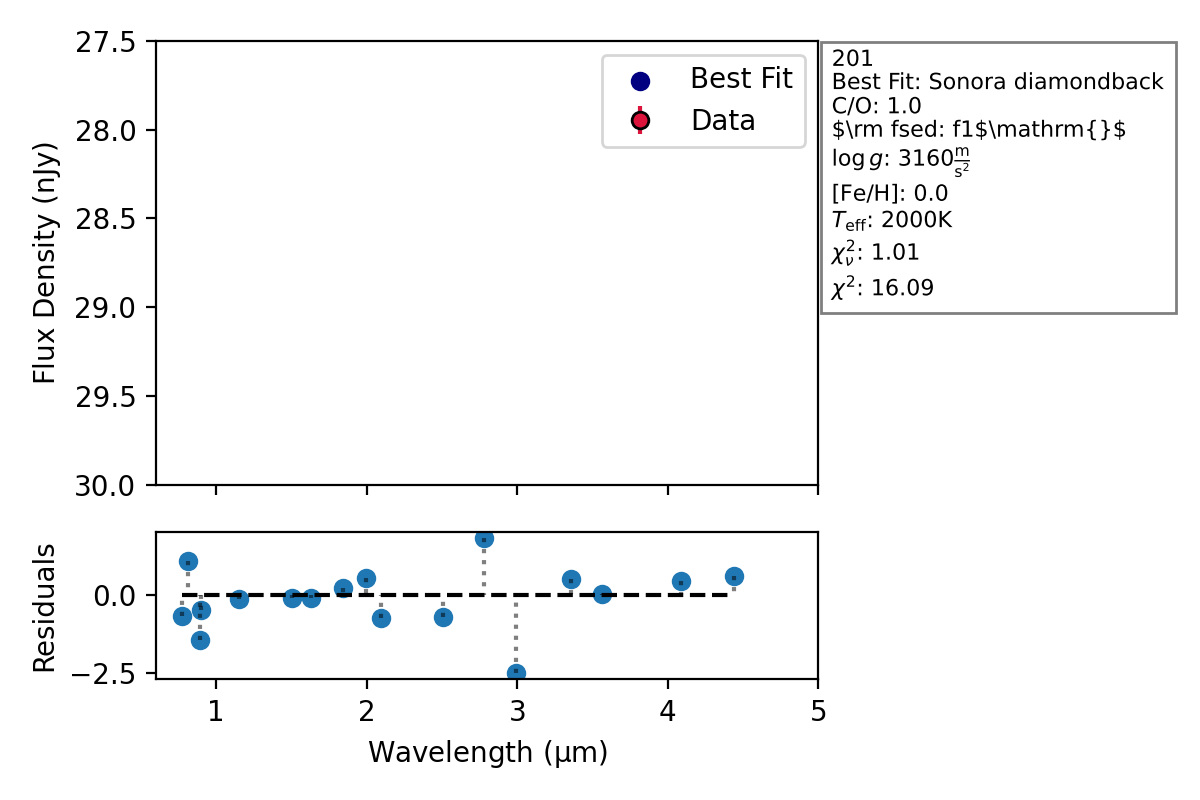
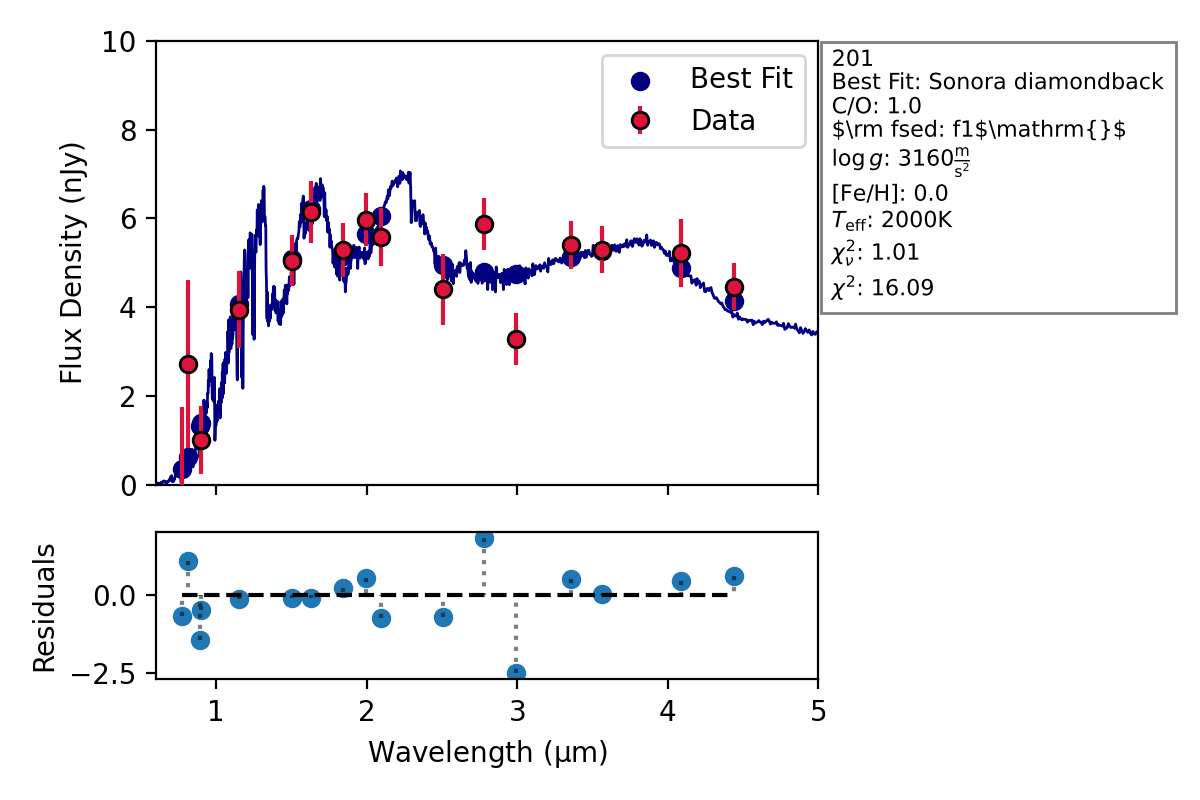
fix: Zero padded annoying shorter sonora cholla template that is the incorrect length

diff --git a/src/BDFit/StarFit.py b/src/BDFit/StarFit.py
@@ -1498,6 +1498,23 @@ class StarFit:
             with h5.File(save_path, "w") as f:
 
                 for library in unique_libraries:
+                    # ensure the length of arrays are all the same, if not zero pad from the start
+                    SED_lengths = np.array([len(SED[0]) for SED in libraries_SEDs[library]])
+                    while not all(SED_lengths[0] == SED_length for SED_length in SED_lengths):
+                        # zero pad the shorter arrays
+                        longest_length_indices = np.where(SED_lengths == max(SED_lengths))[0]
+                        for i, (SED, length) in enumerate(zip(libraries_SEDs[library], SED_lengths)):
+                            if i not in longest_length_indices:
+                                # TODO: ensure mis-matching wavelengths occurs at the start
+                                new_SED_wavs = libraries_SEDs[library][longest_length_indices[0]][0]
+                                new_SED_fluxes = np.concatenate([np.zeros(SED_lengths[longest_length_indices[0]] - length), SED[1]])
+                                # zero pad the shorter array starting from the start
+                                libraries_SEDs[library][i] = (new_SED_wavs, new_SED_fluxes)
+                        SED_lengths = np.array([len(SED[0]) for SED in libraries_SEDs[library]])
+                        if all(SED_lengths[0] == SED_length for SED_length in SED_lengths):
+                            break
+
+                    # ensure all wavelengths are the same
                     consistent_wavelengths = all(
                         all(
                             np.array(libraries_SEDs[library][0][0].to(wav_unit).value)
@@ -1505,12 +1522,12 @@ class StarFit:
                         )
                         for library_SEDs in libraries_SEDs[library]
                     )
+                    assert consistent_wavelengths
                     consistent_flux_lengths = all(
                         len(libraries_SEDs[library][0][1]) == len(library_SEDs[1])
                         for library_SEDs in libraries_SEDs[library]
                     )
-                    # ensure all wavelengths are the same
-                    assert consistent_wavelengths
+
                     # ensure the length of the fluxes is the same
                     assert consistent_flux_lengths
 
